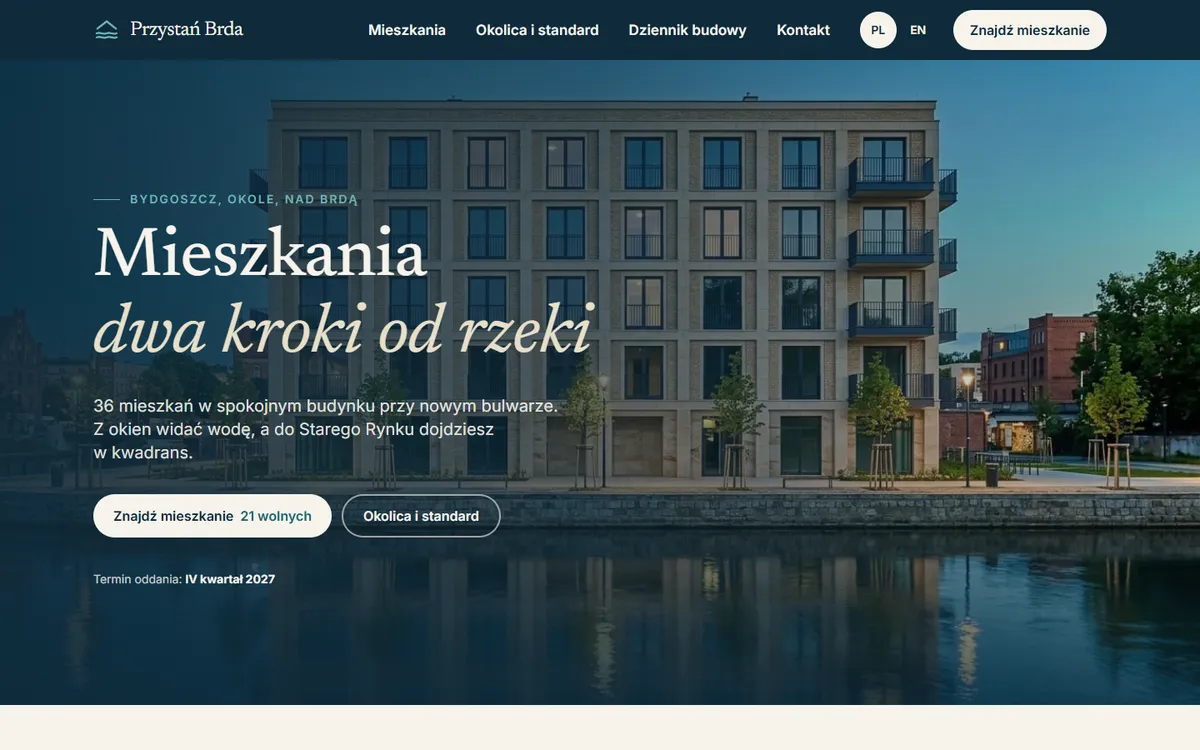
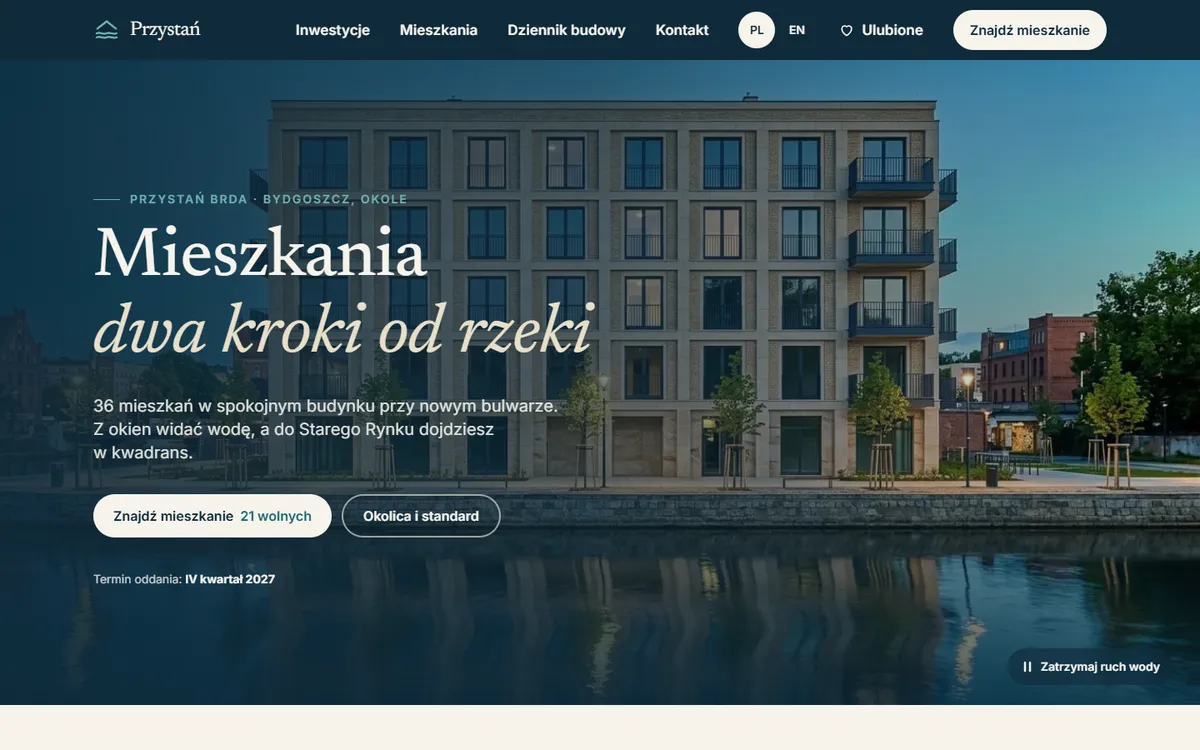
JSON-LD dla inwestycji, ulubione i kalkulator bez przesunięcia układu, README po rozbudowie

diff --git a/web/app/themes/przystan/resources/js/modules/ulubione.js b/web/app/themes/przystan/resources/js/modules/ulubione.js
@@ -39,7 +39,8 @@ function odswiez() {
 
   document.querySelectorAll('[data-ulubione]').forEach((b) => {
     const wlaczone = lista.includes(Number(b.dataset.ulubione));
-    b.hidden = false;
+    b.classList.remove('invisible');
+    b.removeAttribute('tabindex');
     b.setAttribute('aria-pressed', String(wlaczone));
     b.setAttribute('aria-label', wlaczone ? b.dataset.usun : b.dataset.dodaj);
   });

diff --git a/web/app/themes/przystan/app/seo.php b/web/app/themes/przystan/app/seo.php
@@ -7,6 +7,7 @@
 
 namespace App;
 
+use Przystan\Inwestycje\Inwestycja;
 use Przystan\Mieszkania\Mieszkanie;
 use Przystan\Ustawienia\Ustawienia;
 
@@ -131,7 +132,6 @@ add_action('wp_head', function () {
         return;
     }
     $u = Ustawienia::wszystkie();
-    $glowna = Strony::strefaGlowna();
     $organizacja = [
         '@type' => 'Organization',
         '@id' => home_url('/#organizacja'),
@@ -140,27 +140,33 @@ add_action('wp_head', function () {
         'telephone' => $u['telefon'],
         'email' => $u['email'],
     ];
-    $adres = [
-        '@type' => 'PostalAddress',
-        'streetAddress' => 'ul. Przykładowa 4',
-        'postalCode' => '85-000',
-        'addressLocality' => 'Bydgoszcz',
-        'addressCountry' => 'PL',
-    ];
     $graf = [$organizacja];
 
-    if (is_front_page()) {
-        $graf[] = [
+    // Inwestycja jako ApartmentComplex: na swojej stronie pełny opis, w karcie mieszkania jako „containedInPlace”.
+    $kompleks = static function (int $id, bool $pelny): array {
+        $inw = Inwestycja::zId($id);
+        $dane = [
             '@type' => 'ApartmentComplex',
-            '@id' => $glowna . '#inwestycja',
-            'name' => get_bloginfo('name'),
-            'description' => opis(),
-            'url' => $glowna,
-            'address' => $adres,
-            'numberOfAccommodationUnits' => 36,
-            'petsAllowed' => true,
-            'image' => obrazUdostepniania()['url'] ?? null,
+            '@id' => $inw['url'] . '#inwestycja',
+            'name' => $inw['nazwa'],
+            'url' => $inw['url'],
+            'address' => ['@type' => 'PostalAddress', 'addressLocality' => $inw['lokalizacja'], 'addressCountry' => 'PL'],
         ];
+        if ($pelny) {
+            $dane += [
+                'description' => $inw['zajawka'],
+                'numberOfAccommodationUnits' => $inw['mieszkan'] ?: null,
+                'numberOfAvailableAccommodationUnits' => $inw['mieszkan'] ? $inw['wolnych'] : null,
+                'image' => $inw['zdjecie'] ? wp_get_attachment_image_url($inw['zdjecie'], 'szeroki') : null,
+            ];
+        }
+
+        return array_filter($dane, fn($v) => $v !== null);
+    };
+
+    if (is_singular('inwestycja')) {
+        $graf[] = $kompleks(get_queried_object_id(), true);
+        $graf[] = okruszkiLd([[__('Inwestycje', 'przystan'), (string) get_post_type_archive_link('inwestycja')], [get_the_title(), (string) get_permalink()]]);
     }
 
     if (is_singular('mieszkanie')) {
@@ -173,7 +179,7 @@ add_action('wp_head', function () {
             'numberOfRooms' => $m['pokoje'],
             'floorLevel' => (string) $m['pietro'],
             'floorSize' => ['@type' => 'QuantitativeValue', 'value' => $m['metraz'], 'unitCode' => 'MTK'],
-            'containedInPlace' => ['@id' => $glowna . '#inwestycja', '@type' => 'ApartmentComplex', 'name' => get_bloginfo('name'), 'address' => $adres],
+            'containedInPlace' => $m['inwestycja'] ? $kompleks($m['inwestycja'], false) : null,
         ];
         if ($m['rzut']) {
             $mieszkanie['image'] = $m['rzut'];
@@ -188,7 +194,7 @@ add_action('wp_head', function () {
             'price' => $m['cena'] ?: null,
             'seller' => ['@id' => home_url('/#organizacja')],
         ];
-        $graf[] = okruszkiLd([[__('Mieszkania', 'przystan'), Strony::url(Strony::MIESZKANIA)], [$m['numer'], $m['url']]]);
+        $graf[] = okruszkiLd([[$m['inwestycja_nazwa'] ?: __('Mieszkania', 'przystan'), $m['inwestycja'] ? (string) get_permalink($m['inwestycja']) : Strony::url(Strony::MIESZKANIA)], [$m['numer'], $m['url']]]);
     }
 
     if (is_singular('post')) {

diff --git a/web/app/themes/przystan/resources/views/partials/ulubione-przycisk.blade.php b/web/app/themes/przystan/resources/views/partials/ulubione-przycisk.blade.php
@@ -1,9 +1,9 @@
-{{-- Przełącznik „ulubione” (localStorage, bez logowania). Bez JS jest ukryty, bo nie miałby czego zapisać. --}}
-<button type="button" hidden data-ulubione="{{ $id }}" aria-pressed="false"
+{{-- Przełącznik „ulubione” (localStorage, bez logowania). Do startu JS niewidoczny, ale zajmuje miejsce (bez przesunięcia układu). --}}
+<button type="button" data-ulubione="{{ $id }}" aria-pressed="false"
         data-dodaj="{{ sprintf(__('Dodaj %s do ulubionych', 'przystan'), $numer) }}"
         data-usun="{{ sprintf(__('Usuń %s z ulubionych', 'przystan'), $numer) }}"
         aria-label="{{ sprintf(__('Dodaj %s do ulubionych', 'przystan'), $numer) }}"
-        class="{{ $klasa ?? 'inline-flex min-h-11 items-center gap-2 rounded-full border-2 border-current px-4 font-semibold' }} group/ulub">
+        class="{{ $klasa ?? 'inline-flex min-h-11 items-center gap-2 rounded-full border-2 border-current px-4 font-semibold' }} group/ulub invisible" tabindex="-1">
   <svg class="size-5" viewBox="0 0 24 24" aria-hidden="true"><path d="M12 20s-7-4.4-7-10a4 4 0 0 1 7-2.6A4 4 0 0 1 19 10c0 5.6-7 10-7 10Z" fill="none" stroke="currentColor" stroke-width="2" stroke-linejoin="round" class="group-aria-pressed/ulub:fill-current"/></svg>
   @if (! empty($tekst))<span>{{ __('Ulubione', 'przystan') }}</span>@endif
 </button>

diff --git a/web/app/themes/przystan/resources/views/single-mieszkanie.blade.php b/web/app/themes/przystan/resources/views/single-mieszkanie.blade.php
@@ -54,11 +54,11 @@
               @endif
             </p>
           @endif
-          @if ($m['cena'] > 0)
-            @include('partials.kalkulator', ['cena' => $m['cena']])
-          @endif
           @if ($m['status'] !== 'sprzedane')
             <a href="#formularz" class="przycisk przycisk--jasny mt-6 w-full">{{ __('Zapytaj o to mieszkanie', 'przystan') }}</a>
+          @endif
+          @if ($m['cena'] > 0)
+            @include('partials.kalkulator', ['cena' => $m['cena']])
           @endif
         </div>
       </aside>

diff --git a/README.md b/README.md
@@ -1,11 +1,12 @@
-# Przystań Brda: strona inwestycji mieszkaniowej na WordPressie
+# Przystań: strona dewelopera mieszkaniowego na WordPressie
 
 **Demo:** https://przystan.sitebest.eu (PL) · https://przystan.sitebest.eu/en/ (EN)
 
-Strona fikcyjnej inwestycji: 36 mieszkań nad rzeką w Bydgoszczy. Zbudowana jako projekt do portfolio,
-żeby pokazać, jak robię strony na WordPressie bez page buildera: własny motyw, własna wtyczka, REST API,
-wielojęzyczność, SEO techniczne, dostępność i bezpieczeństwo. Firma, ceny i dane kontaktowe są wymyślone
-(strona ma `noindex` i notę „demo” w stopce).
+Strona fikcyjnego dewelopera z Bydgoszczy: trzy inwestycje (w budowie, gotowa, planowana), 52 mieszkania,
+PL i EN. Zbudowana jako projekt do portfolio, żeby pokazać, jak robię strony na WordPressie bez page buildera:
+własny motyw, własna wtyczka, relacje między typami treści, REST API, wielojęzyczność, SEO techniczne,
+dostępność, bezpieczeństwo i animacje, które nie psują wyniku PageSpeed. Firma, ceny i dane kontaktowe są
+wymyślone (strona ma `noindex` i notę „demo” w stopce).
 
 ![Strona główna](docs/zrzuty/glowna.webp)
 
@@ -13,6 +14,7 @@ wielojęzyczność, SEO techniczne, dostępność i bezpieczeństwo. Firma, ceny
 
 | Funkcja | Gdzie w kodzie |
 |---|---|
+| **Inwestycje i relacje**: typ treści „Inwestycja”, mieszkania i wpisy dziennika powiązane polem relacji; przy synchronizacji PL→EN relacja wskazuje angielską wersję inwestycji (`pll_translate_post_meta`); lista, strona inwestycji z harmonogramem, „powiadom mnie” dla planowanej | [`Inwestycje/`](web/app/plugins/przystan-core/src/Inwestycje/), [`single-inwestycja.blade.php`](web/app/themes/przystan/resources/views/single-inwestycja.blade.php) |
 | **Rysowana elewacja**: budynek w SVG generowany w PHP z danych WordPressa; każde okno to link do karty mieszkania z pełnym opisem dla czytników ekranu; kolor + wzór pokazują status | [`components/elewacja.blade.php`](web/app/themes/przystan/resources/views/components/elewacja.blade.php), [`app/Elewacja.php`](web/app/themes/przystan/app/Elewacja.php) |
 | **Wyszukiwarka mieszkań** przez własny endpoint REST i `WP_Query` (`meta_query`), bez przeładowania strony; filtry w adresie URL; działa też bez JavaScriptu | [`Rest/MieszkaniaController.php`](web/app/plugins/przystan-core/src/Rest/MieszkaniaController.php), [`Mieszkania/Wyszukiwarka.php`](web/app/plugins/przystan-core/src/Mieszkania/Wyszukiwarka.php), [`modules/wyszukiwarka.js`](web/app/themes/przystan/resources/js/modules/wyszukiwarka.js) |
 | **Formularz zapytania** z walidacją po stronie serwera, antyspamem bez CAPTCHA (pułapka, podpisany czas, limit IP) i wersją bez JS (`admin-post.php`) | [`Zapytania/`](web/app/plugins/przystan-core/src/Zapytania/) |
@@ -21,7 +23,12 @@ wielojęzyczność, SEO techniczne, dostępność i bezpieczeństwo. Firma, ceny
 | **PL + EN (Polylang)**: tłumaczone treści, synchronizacja liczb i statusu między językami, osobne adresy (`/mieszkania/m-35/`, `/en/apartments/m35/`), pliki `.po/.mo` z poprawnymi polskimi formami liczby mnogiej | [`Polylang/Integracja.php`](web/app/plugins/przystan-core/src/Polylang/Integracja.php), [`languages/`](web/app/plugins/przystan-core/languages/) |
 | **SEO techniczne bez wtyczki SEO**: tytuły, meta description, Open Graph, JSON-LD (`ApartmentComplex`, `Apartment` + `Offer`, `BlogPosting`, `BreadcrumbList`), mapa strony, hreflang | [`app/seo.php`](web/app/themes/przystan/app/seo.php) |
 | **Bezpieczeństwo**: XML-RPC wyłączony, lista użytkowników w REST ukryta, brak wyliczania autorów, CSP i Permissions-Policy, escapowanie i nonce w kodzie, panel za Cloudflare | [`mu-plugins/przystan-bezpieczenstwo.php`](web/app/mu-plugins/przystan-bezpieczenstwo.php) |
+| **Ulubione i porównanie**: serce przy mieszkaniu (localStorage, bez logowania i ciasteczek), porównanie parametrów obok siebie przez REST (`ids[]`), wspólne dla PL i EN | [`modules/ulubione.js`](web/app/themes/przystan/resources/js/modules/ulubione.js), [`modules/porownanie.js`](web/app/themes/przystan/resources/js/modules/porownanie.js) |
+| **Kalkulator raty** na karcie mieszkania (rata równa, orientacyjnie, opisany jako nie-oferta) | [`modules/kalkulator.js`](web/app/themes/przystan/resources/js/modules/kalkulator.js) |
+| **Ruch**: hero „rysunek z rzeki” (kreska rysuje budynek, okna zapalają się piętrami, sam CSS), falujące odbicie w rzece liczone w **Workerze na OffscreenCanvas** (kręgi od kursora i palca, pauza poza ekranem, przycisk zatrzymania), elewacja zapalająca okna przy przewijaniu, przejścia między stronami przez **View Transitions API** | [`partials/hero-szkic.blade.php`](web/app/themes/przystan/resources/views/partials/hero-szkic.blade.php), [`modules/hero.js`](web/app/themes/przystan/resources/js/modules/hero.js), [`modules/odbicie-worker.js`](web/app/themes/przystan/resources/js/modules/odbicie-worker.js), [`modules/ruch.js`](web/app/themes/przystan/resources/js/modules/ruch.js) |
 | **Ustawienia inwestycji** na Settings API (bez płatnego ACF Pro): kontakt, termin, adres i klucz webhooka | [`Ustawienia/`](web/app/plugins/przystan-core/src/Ustawienia/) |
+
+![Inwestycje](docs/zrzuty/inwestycje.webp)
 
 <p>
   <img src="docs/zrzuty/wyszukiwarka.webp" alt="Wyszukiwarka z elewacją i filtrami" width="64%">
@@ -42,6 +49,7 @@ wielojęzyczność, SEO techniczne, dostępność i bezpieczeństwo. Firma, ceny
 ```
 config/                          konfiguracja Bedrocka (application.php + środowiska)
 web/app/plugins/przystan-core/   WTYCZKA: dane i logika (działa z dowolnym motywem)
+  src/Inwestycje/                typ treści „Inwestycja”, pola (status, budynek, harmonogram), dane
   src/Mieszkania/                typ treści, pola ACF, wyszukiwarka (WP_Query), dane mieszkania
   src/Rest/                      endpointy REST: GET /mieszkania, POST /zapytania
   src/Zapytania/                 formularz: walidacja, antyspam, zapis, wersja bez JS
@@ -51,7 +59,8 @@ web/app/plugins/przystan-core/   WTYCZKA: dane i logika (działa z dowolnym moty
 web/app/themes/przystan/         MOTYW: tylko wygląd
   app/                           setup, SEO, composery widoków (dane dla Blade), geometria elewacji
   resources/views/               szablony Blade
-  resources/js/modules/          menu, elewacja, wyszukiwarka, formularz (czysty JS, ~2 KB gzip)
+  resources/js/modules/          menu, elewacja, wyszukiwarka, formularz, ulubione, kalkulator, ruch, hero + Worker
+                                 (czysty JS, bez bibliotek: ~5 KB gzip + Worker 1,7 KB)
   resources/css/app.css          system wizualny w Tailwind 4 (@theme)
 web/app/mu-plugins/              hardening bezpieczeństwa
 scripts/                         seed treści, wdrożenie, testy dymne, rzuty, tłumaczenia
@@ -73,7 +82,7 @@ wp core install --url=http://localhost:8810 --title="Przystań Brda" --admin_use
 wp language core install pl_PL en_GB
 wp plugin activate advanced-custom-fields polylang przystan-core && wp theme activate przystan
 npm install && npm run rzuty     # rzuty mieszkań (SVG → WebP); zdjęcia są już w scripts/seed-media
-wp eval-file scripts/seed.php   # strony, 36 mieszkań × 2 języki, dziennik budowy, menu, ustawienia
+wp eval-file scripts/seed.php   # 3 inwestycje, strony, 52 mieszkania × 2 języki, dziennik budowy, menu, ustawienia
 wp rewrite flush
 wp server --port=8810
 ```
@@ -81,7 +90,7 @@ wp server --port=8810
 Testy i styl:
 
 ```bash
-vendor/bin/pest                 # logika wtyczki: filtry, zapytanie WP_Query, walidator, podpis HMAC, antyspam
+vendor/bin/pest                 # filtry, zapytanie WP_Query, walidator, podpis HMAC, antyspam, geometria elewacji
 vendor/bin/pint --test          # styl kodu
 scripts/check.sh                # testy dymne działającej strony (adresy, SEO, REST, nagłówki)
 ```
@@ -106,6 +115,7 @@ X-Przystan-Signature: sha256=<HMAC-SHA256("timestamp.treść", klucz)>
   "mieszkanie": { "numer": "M-35", "pietro": 3, "pokoje": 3, "metraz": 62.7, "cena": 662000, "status": "wolne", "url": "…" } }
 ```
 
+Zapis na powiadomienie o planowanej inwestycji ma zdarzenie `powiadomienie.zapis` i pole `inwestycja`.
 Odbiorcą może być n8n, Make, Zapier albo endpoint CRM. Bez adresu zapytania tylko zapisują się w panelu.
 
 ## Wdrożenie
@@ -124,16 +134,21 @@ języki, cache widoków Blade, `rewrite flush`. WP-Cron uruchamia systemowy cron
   nie trzeba ręcznie obrysowywać okien, a każde okno jest dostępne z klawiatury.
 - **Polylang zamiast WPML.** Darmowy, a kod nie zależy od wtyczki: ciągi przez `__()` + `.po/.mo`,
   integracja w jednej klasie. Darmowy Polylang nie tłumaczy sluga typu treści, więc `/en/apartments/` to własna reguła rewrite.
+- **Elewacja parametryczna.** Liczba kondygnacji i lokali na piętro to pola inwestycji, więc nowy budynek
+  nie wymaga zmian w kodzie motywu.
+- **Animacje bez bibliotek i bez kosztu dla LCP.** Nagłówek jest widoczny od pierwszej klatki; rysunek w hero to CSS,
+  a ciężka część (odbicie w wodzie) startuje po pierwszych sekundach w wątku roboczym. Ruch automatyczny ma pauzę
+  i sam się zatrzymuje (WCAG 2.2.2), a przy „ogranicz ruch” strona od razu pokazuje stan końcowy.
 - **Formatowanie liczb we wtyczce.** Ceny i metraże formatuje wtyczka według języka strony (PL „670 000 zł”, EN „670,000 zł”).
 
 ## Jakość
 
-- **Lighthouse (telefon):** dostępność 100, dobre praktyki 100, SEO 100 z wyjątkiem celowego `noindex`.
-  Wydajność na produkcji: zob. sekcja niżej.
+- **Lighthouse na produkcji (telefon, z animacjami):** wydajność 93-100, dostępność 100, dobre praktyki 100;
+  SEO 100 z wyjątkiem celowego `noindex`. Komputer: 100/100/100. Total Blocking Time 0-10 ms.
 - **WCAG 2.2 AA:** kontrast sprawdzony dla każdej pary kolorów, skip link, widoczny fokus, etykiety i błędy pól
   powiązane przez `aria-describedby`, komunikaty w `aria-live`, status mieszkania kolorem i kształtem, cele dotykowe ≥ 24 px.
 - **Wydajność:** fonty lokalnie (bez Google Fonts), WebP w kilku rozmiarach (`srcset`), hero z `fetchpriority="high"`,
-  bez jQuery, emoji, oEmbed i stylów bloków poza wpisami, JS ~2 KB gzip, CSS ~13 KB gzip, zero zewnętrznych żądań.
+  bez jQuery, emoji, oEmbed i stylów bloków poza wpisami, JS ~5 KB gzip, CSS ~14 KB gzip, zero zewnętrznych żądań.
 
 ## Moja rola
 
@@ -146,10 +161,12 @@ i odpowiadam za wynik na produkcji. Zdjęcia wygenerowane w Google Flow, rzuty m
 
 ### English summary
 
-A WordPress site for a fictional riverside apartment development, built to show custom WordPress work without
-page builders: **Bedrock + Sage 11 (Blade, Tailwind 4, Vite)**, a custom plugin (custom post type + ACF fields
+A WordPress site for a fictional residential developer with three developments, built to show custom WordPress
+work without page builders: **Bedrock + Sage 11 (Blade, Tailwind 4, Vite)**, a custom plugin (custom post type + ACF fields
 in code, REST search endpoint using `WP_Query`, enquiry form with HMAC-signed webhook and retries via WP-Cron,
 Settings API page), **Polylang** (PL/EN), technical SEO without an SEO plugin (JSON-LD, Open Graph, hreflang,
-sitemap), WCAG 2.2 AA and security hardening. The interactive facade is an SVG generated in PHP from WordPress data:
+sitemap), WCAG 2.2 AA and security hardening. Developments, apartments and diary posts are linked custom post types;
+there are favourites with side-by-side comparison, a mortgage calculator, and motion without libraries (a CSS
+line-drawing intro, a rippling river reflection rendered in a Web Worker on OffscreenCanvas, View Transitions). The interactive facade is an SVG generated in PHP from WordPress data:
 every window is a keyboard-accessible link to the apartment page. Built with Claude Code as a tool; I make the
 decisions, review and test every change, and deploy.
